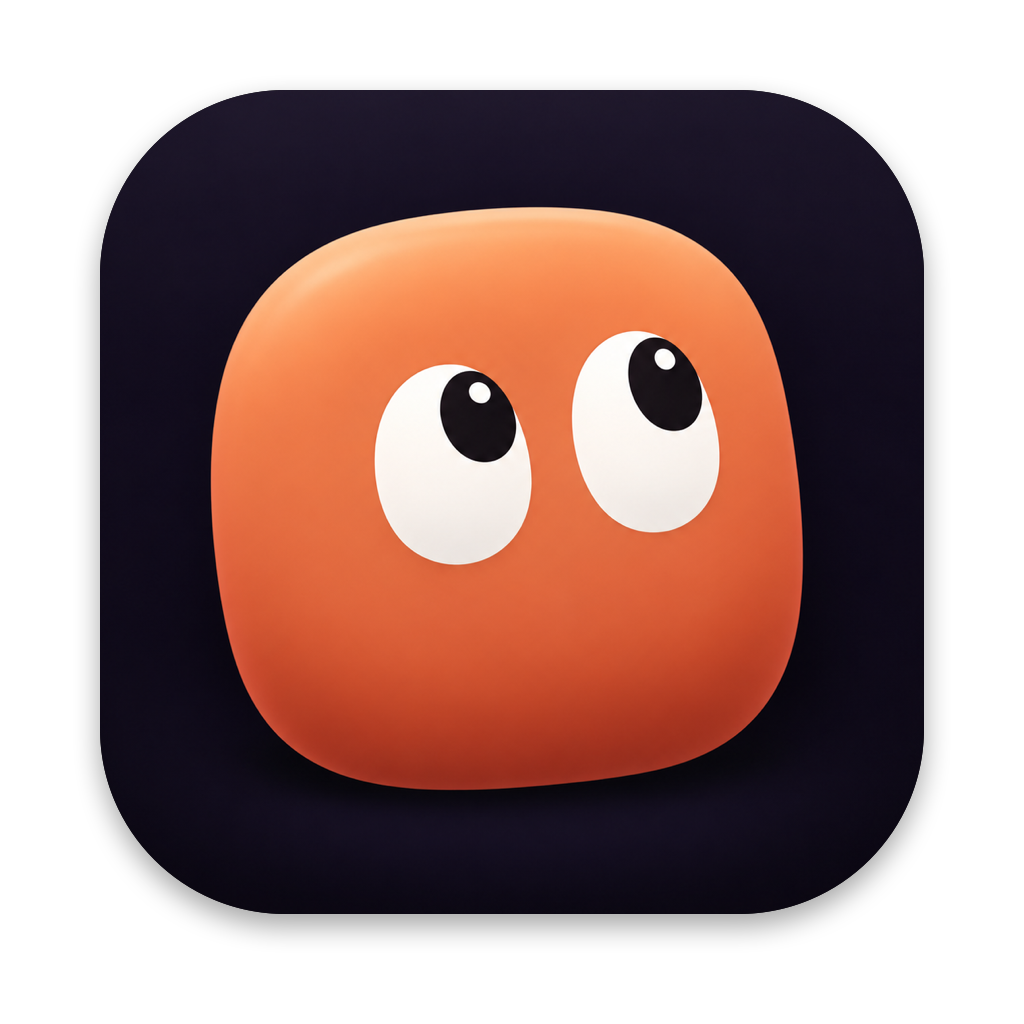
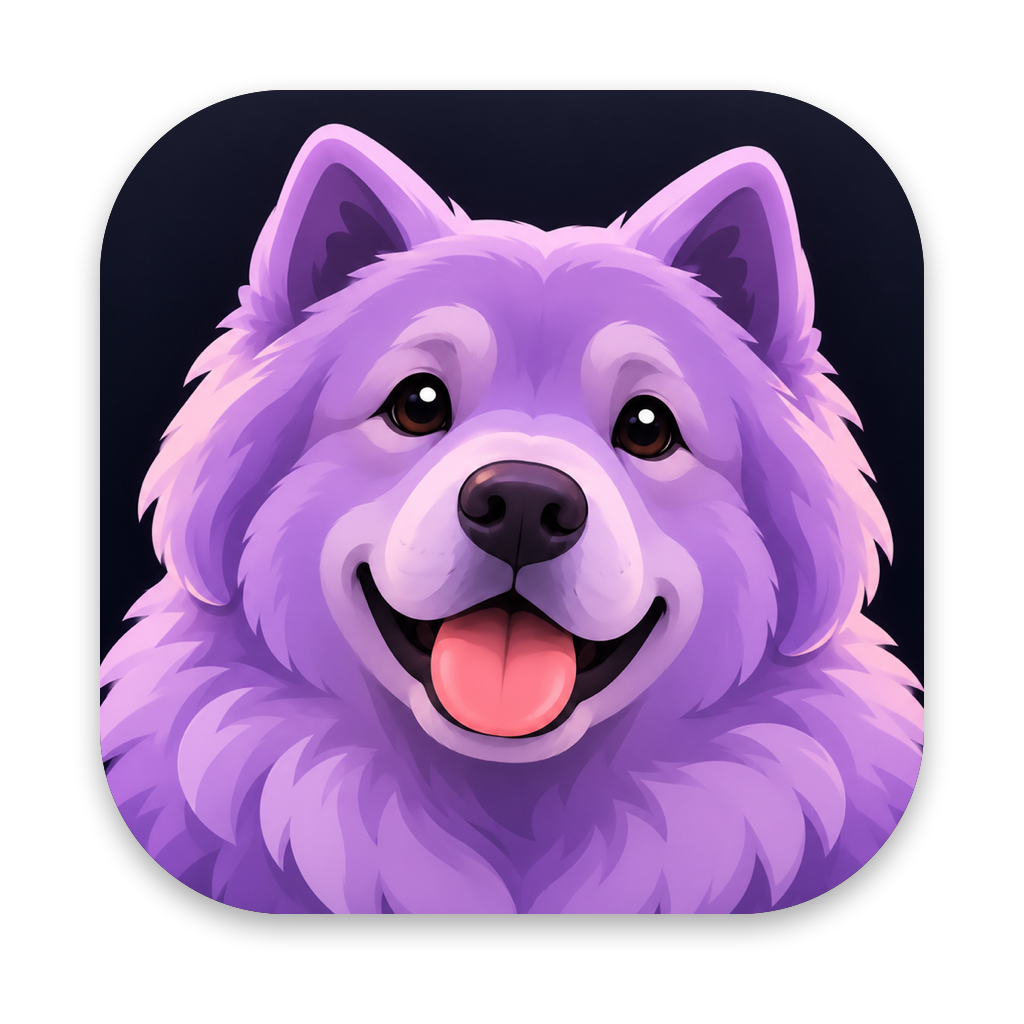
Buddy 0.2.1: a purple pup
New app icon (a cartoon purple Lab/Chow mix) and a new notch character,
a small purple dog face with upright ears, with the same moods as before.

diff --git a/Sources/Views.swift b/Sources/Views.swift
@@ -12,8 +12,9 @@ extension Mood {
     }
 }
 
-/// The little guy: a Claude-coloured squircle with eyes. Glances around while Claude
-/// works, hops when it needs you, smiles when it is done, blinks when idle.
+/// The little guy: a purple Lab/Chow pup's face with upright triangle ears. Glances around
+/// while Claude works, hops when it needs you, smiles with his tongue out when it is done,
+/// blinks when idle.
 struct Guy: View {
     let mood: Mood
     let size: CGFloat
@@ -24,34 +25,61 @@ struct Guy: View {
     @State private var look: CGFloat = 0
     @State private var hop = false
 
-    private let skin = Color(red: 0.85, green: 0.47, blue: 0.34)
+    private let fur = Color(red: 0.64, green: 0.50, blue: 0.90)
+    private let furShade = Color(red: 0.50, green: 0.36, blue: 0.80)
+    private let light = Color(red: 0.88, green: 0.81, blue: 0.98)
+    private let ink = Color(red: 0.13, green: 0.09, blue: 0.20)
 
     var body: some View {
+        let s = size
         ZStack {
-            RoundedRectangle(cornerRadius: size * 0.34, style: .continuous)
-                .fill(skin.gradient)
-            HStack(spacing: size * 0.18) { eye; eye }
-                .offset(y: -size * 0.03)
+            ear.position(x: s * 0.25, y: s * 0.25)
+            ear.scaleEffect(x: -1).position(x: s * 0.75, y: s * 0.25)
+            RoundedRectangle(cornerRadius: s * 0.34, style: .continuous)
+                .fill(LinearGradient(colors: [fur, furShade], startPoint: .top, endPoint: .bottom))
+                .frame(width: s * 0.94, height: s * 0.72)
+                .position(x: s * 0.5, y: s * 0.62)
+            if mood == .done {  // over the head, under the muzzle, so it hangs out from under it
+                Capsule().fill(Color(red: 0.98, green: 0.47, blue: 0.58))
+                    .frame(width: s * 0.13, height: s * 0.16)
+                    .position(x: s * 0.5, y: s * 0.91)
+            }
+            Ellipse().fill(light)
+                .frame(width: s * 0.46, height: s * 0.27)
+                .position(x: s * 0.5, y: s * 0.78)
+            Ellipse().fill(ink)
+                .frame(width: s * 0.17, height: s * 0.11)
+                .position(x: s * 0.5, y: s * 0.70)
+            eye.position(x: s * 0.31 + look * s * 0.025, y: s * 0.54)
+            eye.position(x: s * 0.69 + look * s * 0.025, y: s * 0.54)
         }
-        .frame(width: size, height: size * 0.88)
-        .offset(y: hop ? -size * 0.16 : 0)
+        .frame(width: s, height: s)
+        .offset(y: hop ? -s * 0.16 : 0)
         .task(id: "\(mood.rawValue)-\(urgent)") { await animate() }
+    }
+
+    /// A short triangle ear pointing straight up, with a lighter inside.
+    private var ear: some View {
+        ZStack {
+            Ear().fill(fur)
+            Ear().fill(light.opacity(0.85))
+                .frame(width: size * 0.16, height: size * 0.12)
+                .offset(x: size * 0.01, y: size * 0.035)
+        }
+        .frame(width: size * 0.34, height: size * 0.25)
     }
 
     @ViewBuilder private var eye: some View {
         if mood == .done {
-            HappyEye().stroke(.white, style: StrokeStyle(lineWidth: size * 0.07, lineCap: .round))
-                .frame(width: size * 0.2, height: size * 0.12)
+            HappyEye().stroke(ink, style: StrokeStyle(lineWidth: size * 0.06, lineCap: .round))
+                .frame(width: size * 0.15, height: size * 0.08)
         } else {
-            let wide = mood == .attention
-            Capsule().fill(.white)
-                .frame(width: size * 0.2, height: size * (wide ? 0.32 : 0.27))
-                .overlay(
-                    Circle().fill(.black)
-                        .frame(width: size * 0.11)
-                        .offset(x: look * size * 0.04, y: wide ? -size * 0.03 : 0)
-                )
-                .scaleEffect(y: blink ? 0.1 : 1)
+            let d = size * (mood == .attention ? 0.16 : 0.13)
+            Circle().fill(ink)
+                .frame(width: d, height: d)
+                .overlay(Circle().fill(.white).frame(width: d * 0.36, height: d * 0.36)
+                    .offset(x: -d * 0.18, y: -d * 0.18))
+                .scaleEffect(y: blink ? 0.12 : 1)
         }
     }
 
@@ -90,6 +118,20 @@ struct Guy: View {
 
     private func pause(_ seconds: Double) async {
         try? await Task.sleep(for: .seconds(seconds))
+    }
+}
+
+/// An upright triangle with a softly rounded tip and base corners.
+struct Ear: Shape {
+    func path(in r: CGRect) -> Path {
+        var p = Path()
+        p.move(to: CGPoint(x: r.minX, y: r.maxY))
+        p.addLine(to: CGPoint(x: r.midX - r.width * 0.08, y: r.minY + r.height * 0.08))
+        p.addQuadCurve(to: CGPoint(x: r.midX + r.width * 0.08, y: r.minY + r.height * 0.08),
+                       control: CGPoint(x: r.midX, y: r.minY - r.height * 0.04))
+        p.addLine(to: CGPoint(x: r.maxX, y: r.maxY))
+        p.closeSubpath()
+        return p
     }
 }
 

diff --git a/scripts/make_icon.swift b/scripts/make_icon.swift
@@ -14,18 +14,17 @@ func dark(_ x: Int, _ y: Int) -> Bool {
     guard let c = rep.colorAt(x: x, y: y)?.usingColorSpace(.deviceRGB) else { return false }
     return c.redComponent + c.greenComponent + c.blueComponent < 0.6  // navy/near-black
 }
-// Bounding box of the dark square: scan rows and columns through the middle.
-var minX = w, maxX = 0, minY = h, maxY = 0
-for y in stride(from: 0, to: h, by: 2) where dark(w / 2, y) { minY = min(minY, y); maxY = max(maxY, y) }
-for x in stride(from: 0, to: w, by: 2) where dark(x, h / 2) { minX = min(minX, x); maxX = max(maxX, x) }
-// The middle row/column cross the orange body too; the square's edges are what we want.
-var minX2 = w, maxX2 = 0
-let probeY = minY + (maxY - minY) / 8  // near the top edge, above the character
-for x in 0..<w where dark(x, probeY) { minX2 = min(minX2, x); maxX2 = max(maxX2, x) }
-let side = max(maxX2 - minX2, maxY - minY)
-let cx = (minX2 + maxX2) / 2, cy = (minY + maxY) / 2
-let crop = CGRect(x: cx - side / 2, y: cy - side / 2, width: side, height: side)
-FileHandle.standardError.write("image \(w)x\(h), square \(Int(crop.minX)),\(Int(crop.minY)) size \(side)\n".data(using: .utf8)!)
+// The dark square: its left and right edges from a row near the top (above the art), and its
+// top edge from the first dark rows down the middle. The art may fill the square to the
+// bottom, so the bottom edge is taken from the width (it is a square).
+var top = h
+for y in stride(from: 0, to: h / 2, by: 1) where dark(w / 2, y) { top = y; break }
+let probeY = top + h / 16
+var left = w, right = 0
+for x in 0..<w where dark(x, probeY) { left = min(left, x); right = max(right, x) }
+let side = right - left
+let crop = CGRect(x: left, y: top, width: side, height: side)
+FileHandle.standardError.write("image \(w)x\(h), square \(left),\(top) size \(side)\n".data(using: .utf8)!)
 guard let square = cg.cropping(to: crop) else { fatalError("crop failed") }
 
 let canvas = 1024, body: CGFloat = 824

diff --git a/Tools/render_demo.swift b/Tools/render_demo.swift
@@ -42,7 +42,29 @@ func render(_ name: String, height: CGFloat, expanded: Bool, _ events: [HookEven
     print("wrote \(name).png")
 }
 
+/// Every mood, large, for checking the character's drawing.
+@MainActor
+func renderCharacterSheet() {
+    let moods: [(Mood, String)] = [(.idle, "idle"), (.working, "working"), (.attention, "needs you"), (.done, "done"), (.paused, "paused")]
+    let sheet = HStack(spacing: 36) {
+        ForEach(moods, id: \.1) { mood, label in
+            VStack(spacing: 14) {
+                Guy(mood: mood, size: 120)
+                Text(label).font(.system(size: 15)).foregroundStyle(.white.opacity(0.7))
+            }
+        }
+    }
+    .padding(40)
+    .background(.black)
+    let renderer = ImageRenderer(content: sheet)
+    renderer.scale = 2
+    let png = NSBitmapImageRep(data: renderer.nsImage!.tiffRepresentation!)!.representation(using: .png, properties: [:])!
+    try! png.write(to: outDir.appendingPathComponent("character.png"))
+    print("wrote character.png")
+}
+
 MainActor.assumeIsolated {
+    renderCharacterSheet()
     let now = Date()
     let earlier = now.addingTimeInterval(-192)
 

diff --git a/CHANGELOG.md b/CHANGELOG.md
@@ -1,5 +1,10 @@
 # Changelog
 
+## 0.2.1
+
+### Changed
+- Buddy is now a purple pup: a new app icon (a cartoon Lab/Chow mix) and a new notch character with short upright ears. He still glances while Claude works, hops when a session needs you, and smiles with his tongue out when it finishes.
+
 ## 0.2.0 (first public release)
 
 ### Added
